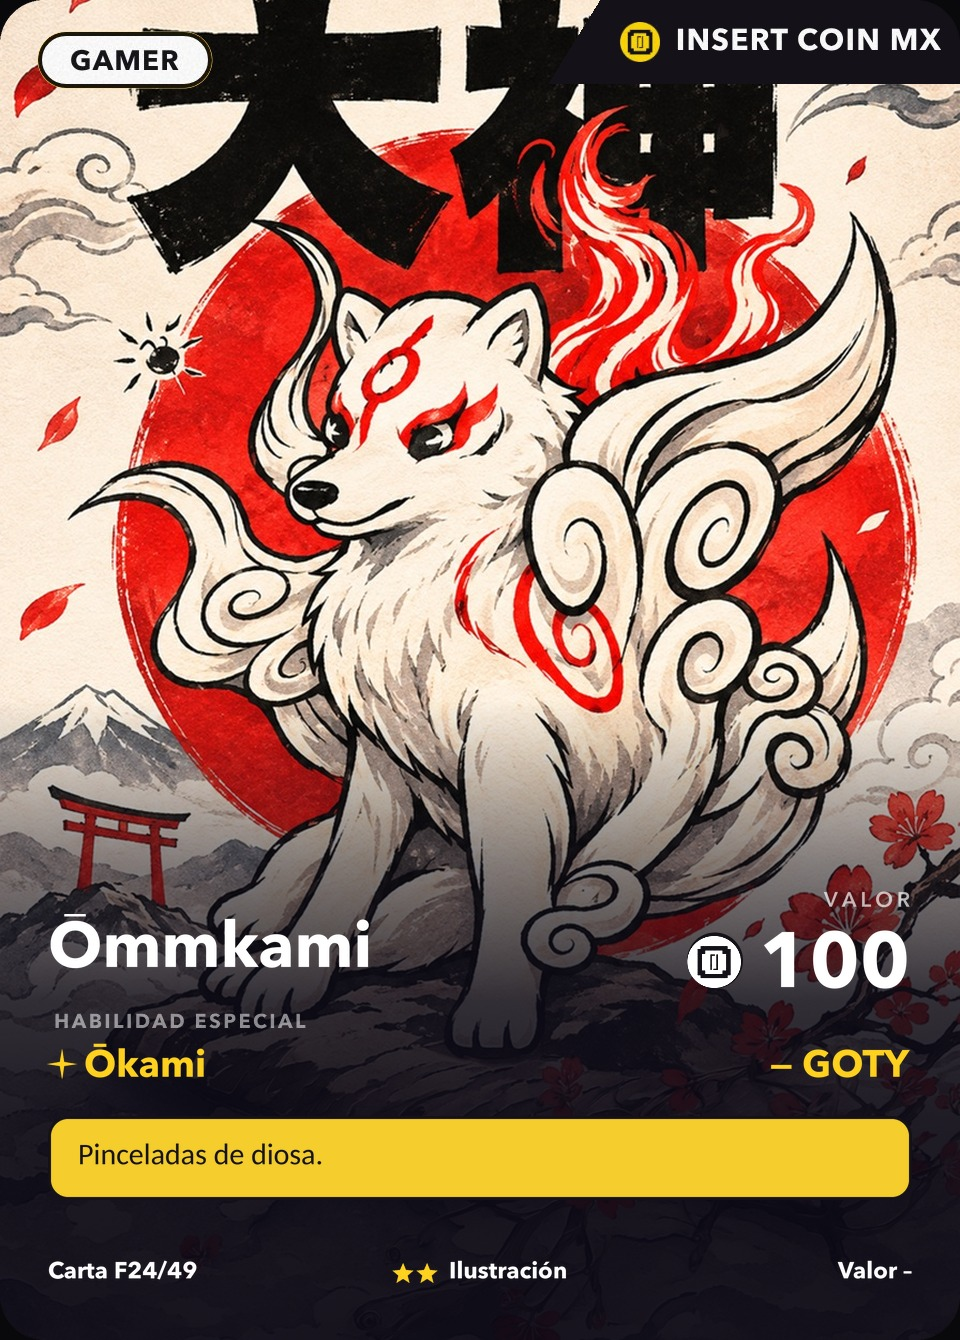
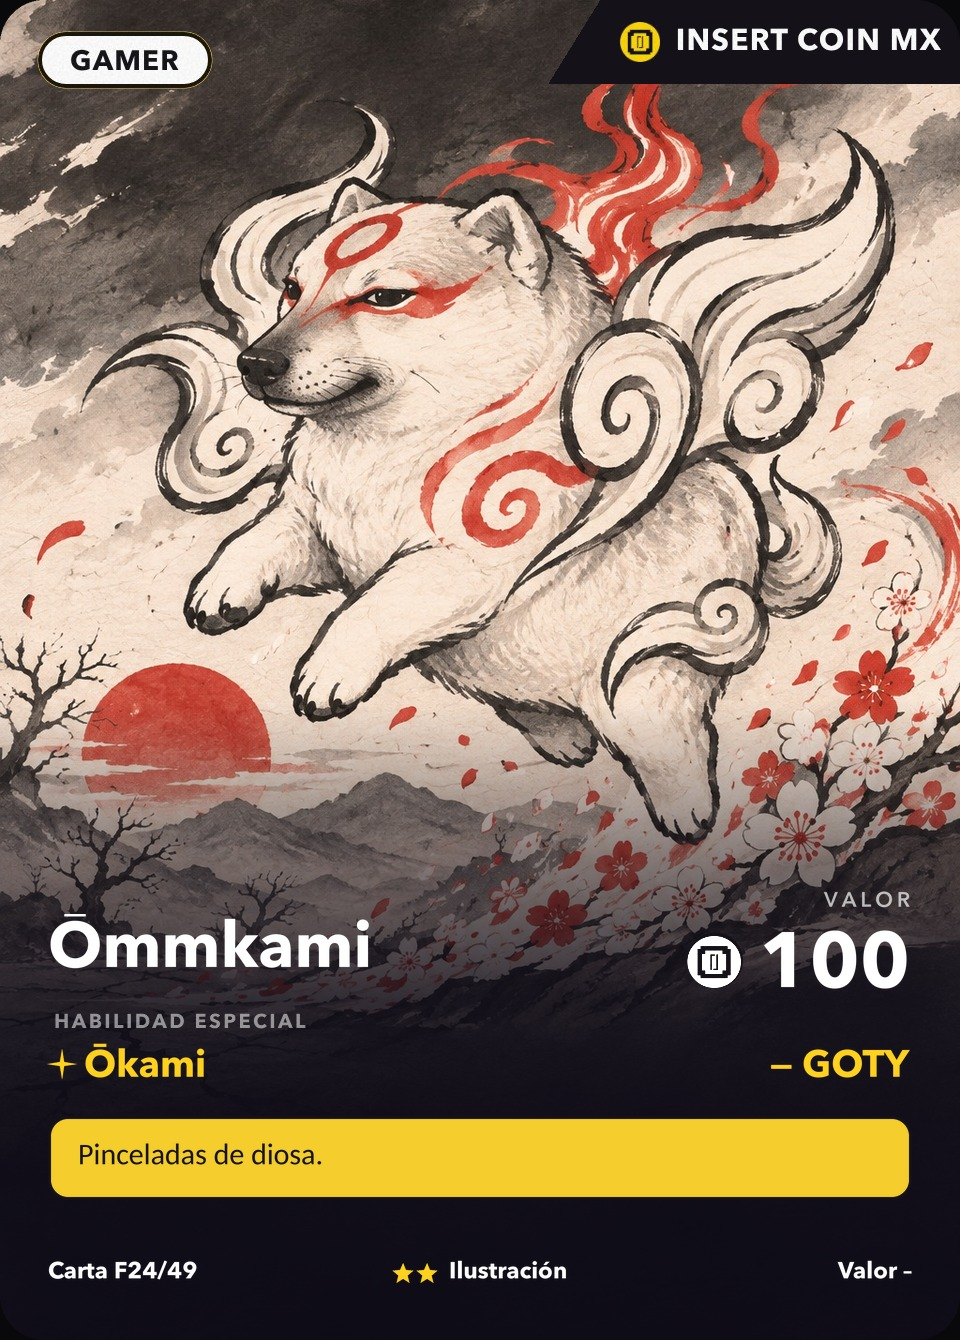
fix(cartas): nueva ilustración Full de Ōmmkami; --solo respeta la selección con --fulls
Claude-Session: https://claude.ai/code/session_01WEHJpKqespL9b5LzfrP9pb

diff --git a/cartas/generar.py b/cartas/generar.py
@@ -414,7 +414,7 @@ def main():
     fks = leer_fk()
     # si se agregó una Full, cambia el total (/NN): se rehacen todas las Full
     sel_f = [d for d in cat if d.get('full') and os.path.exists(os.path.join(FULL_DIR, d['id'] + '.jpg'))
-             and (not a.solo or d['id'] in a.solo or nuevos or a.fulls)]
+             and (not a.solo or d['id'] in a.solo or nuevos)]
     if a.fulls:
         sel = []
     for d in sel_f:
